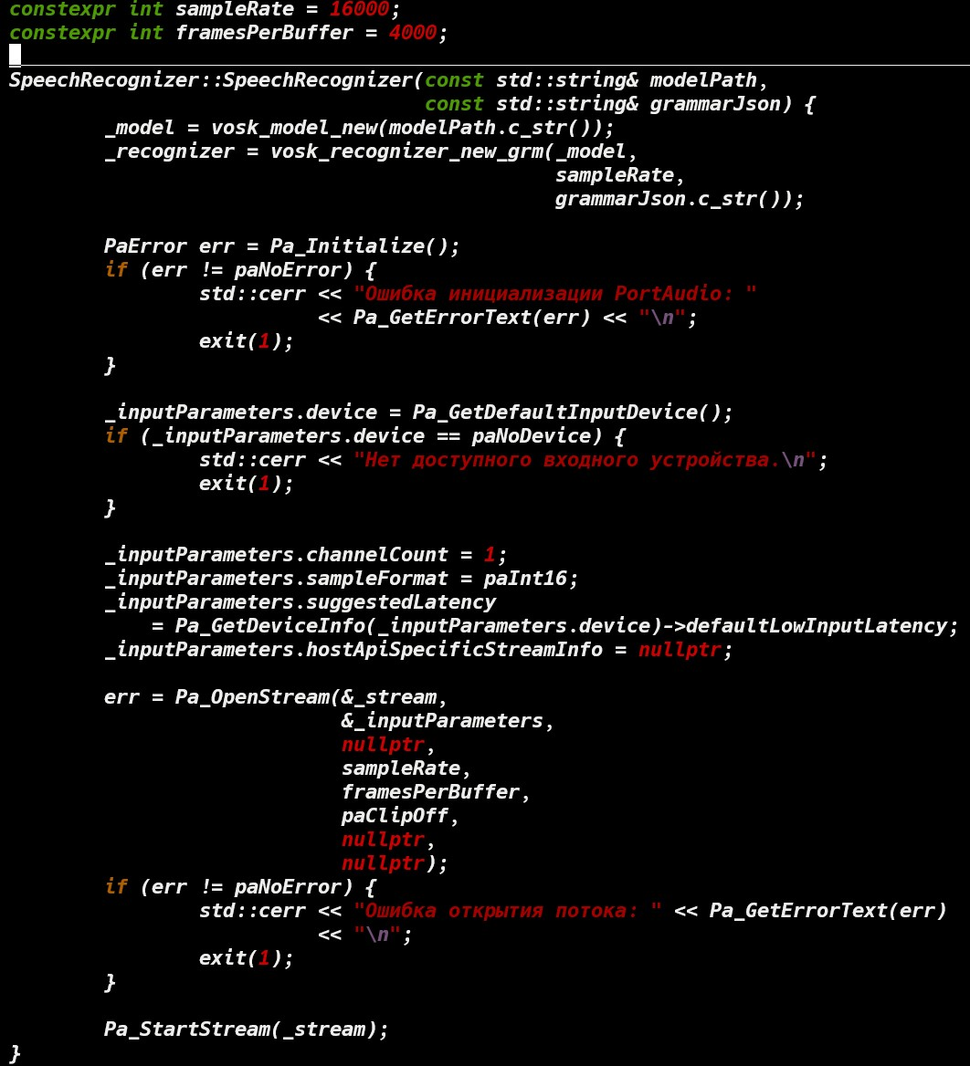
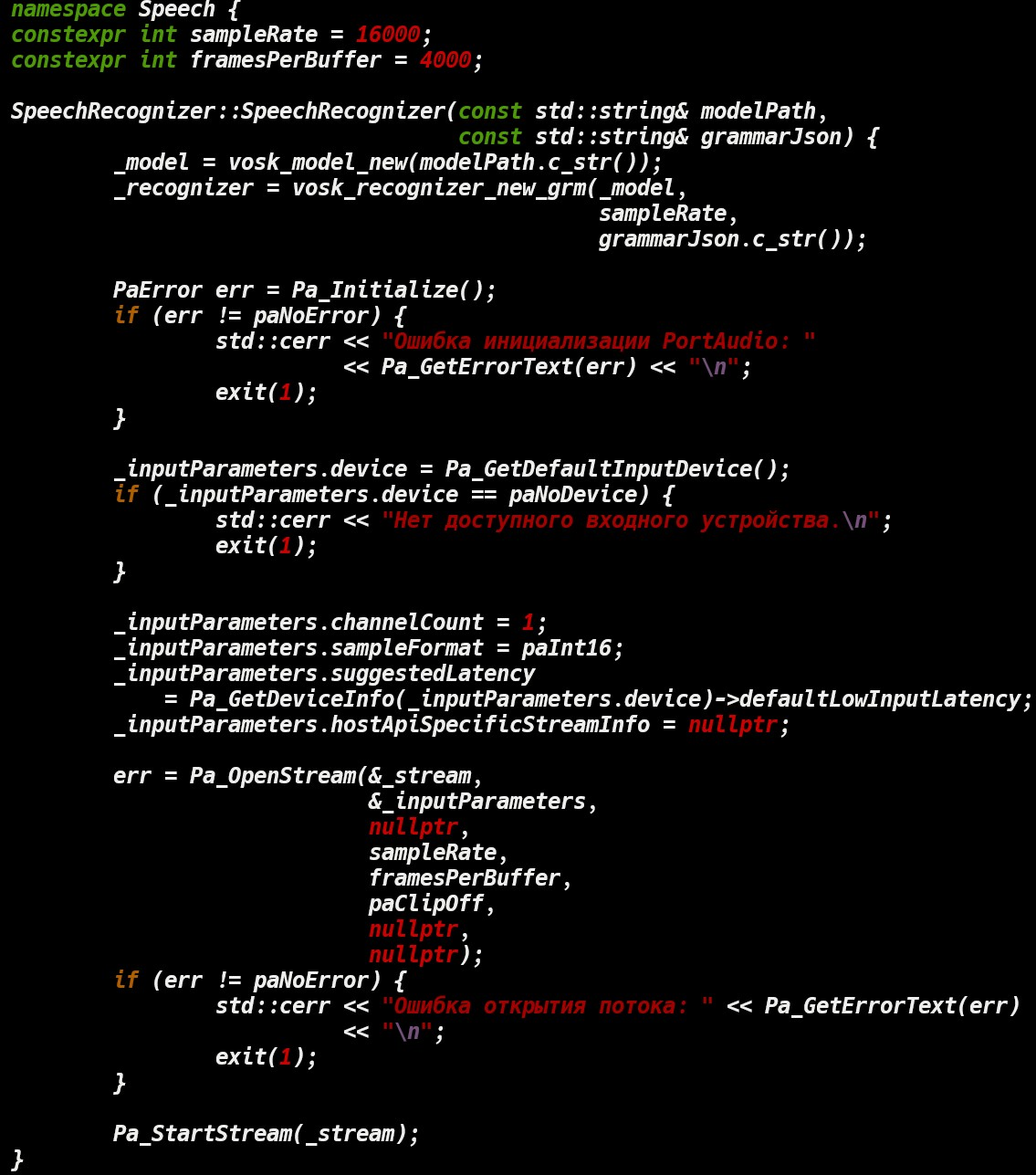
Написал 3 раздел и добавил фото

diff --git a/Tex/section_3.tex b/Tex/section_3.tex
@@ -9,9 +9,9 @@
 \begin{itemize}
 	\item {Core::VoiceAssistant} — центральный компонент, управляющий жизненным циклом голосового помощника. Он отвечает за инициализацию всех необходимых модулей и запуск основного цикла обработки команд.
 	
-	\item {Speach::SpeechRecognizer} — модуль распознавания речи, использующий библиотеку \textit{Vosk} и \text{PortAudio} для захвата и анализа аудиопотока с микрофона.
+	\item {Speech::SpeechRecognizer} — модуль распознавания речи, использующий библиотеку \textit{Vosk} и \text{PortAudio} для захвата и анализа аудиопотока с микрофона.
 	
-	\item {CommandManager} — отвечает за регистрацию голосовых команд и выполнение соответствующих обработчиков при их распознавании.
+	\item {Commands::CommandManager} — отвечает за регистрацию голосовых команд и выполнение соответствующих обработчиков при их распознавании.
 \end{itemize}
 
 Взаимодействие между компонентами организовано следующим образом: \texttt{VoiceAssistant} инициализирует экземпляр \texttt{SpeechRecognizer}, а затем в бесконечном цикле получает голосовой ввод, преобразованный в текст. Полученный текст передаётся в \texttt{CommandManager}, который анализирует его и при обнаружении соответствующей команды вызывает заранее зарегистрированную функцию-обработчик. Таким образом реализована цепочка: \textbf{распознавание}~$\rightarrow$~\textbf{анализ}~$\rightarrow$~\textbf{выполнение}.
@@ -23,54 +23,100 @@
 На представленном рисунке \ref{fig:main.cpp} показан исходный код на языке C++, реализующий точку входа в систему голосового помощника.
 \begin{figure}[H]
 	\centering
-	\includegraphics[scale=0.5]{main.jpg}
+	\includegraphics[scale=0.7]{main.jpg}
 	\caption{Точка входа в программную систему}
 	\label{fig:main.cpp}
 \end{figure}
 
+При создании обьетка assistant вызывается конструктор класса VoiceAssistant на рисунке \ref{fig:constructor_VoiceAssistant}
+
 \begin{figure}[H]
 	\centering
-	\includegraphics[scale=0.5]{constructor_VoiceAssistant.jpg}
+	\includegraphics[scale=0.7]{constructor_VoiceAssistant.jpg}
 	\caption{Конструктор VoiceAssistant}
+	\label{fig:constructor_VoiceAssistant}
 \end{figure}
 
-При создании объекта VoiceAssistant:
+Конструктор класса VoiceAssistant:
 \begin{itemize}
  	\item Загружается модель распознавания речи Vosk для русского языка.
 
 	\item Настраивается ограниченный набор фраз, которые ассистент сможет распознавать. Это повышает точность, так как система не пытается распознать произвольную речь, а ждёт только указанные команды.
 \end{itemize}
 
+Затем созданный обьект вызывает метод run() который представлен на рисунке \ref{fig:run_VoiceAssistant}
+
 \begin{figure}[H]
 	\centering
-	\includegraphics[scale=0.7]{run_VoiceAssistant.jpg}
+	\includegraphics[scale=0.6]{run_VoiceAssistant.jpg}
 	\caption{Метод run() класса VoiceAssistant}
+	\label{fig:run_VoiceAssistant}
 \end{figure}
 
-Метод VoiceAssistant::run() обеспечивает запуск и непрерывную работу голосового ассистента. В начале работы выводится ASCII-графика в виде стилизованного баннера, созданного с помощью raw-строки для удобного многострочного форматирования. Сразу после отображения логотипа программа выводит текстовое сообщение "Голосовой помощник запущен", сигнализирующее о начале работы системы. Основная функциональность реализована через бесконечный цикл, в котором непрерывно происходит захват аудиопотока через метод recognizer->listen(), преобразование звукового сигнала в текст с использованием модели распознавания речи Vosk и последующая обработка полученных команд. Распознанный текст проверяется на пустоту, и при успешном распознавании передается в метод processCommand() для выполнения соответствующих действий. Система работает в постоянном режиме ожидания голосовых команд до принудительного завершения работы программы, при этом все пустые или нераспознанные аудиофрагменты автоматически игнорируются для предотвращения ложных срабатываний. Реализация использует предобученную модель Vosk для русского языка с ограниченным набором команд, что обеспечивает высокую точность распознавания при работе с заданными фразами-триггерами. Алгоритм работы представляет собой последовательность непрерывно повторяющихся операций: захват аудиосигнала, преобразование речи в текст, валидация результата и выполнение соответствующей команды через механизм обработки голосовых инструкций.
+Метод VoiceAssistant::run() обеспечивает запуск и непрерывную работу голосового ассистента. В начале работы выводится ASCII-графика в виде стилизованного баннера. Сразу после отображения логотипа программа выводит текстовое сообщение "Голосовой помощник запущен". Основная функциональность реализована через бесконечный цикл, в котором есть обьект который создан через конструктор показаный на рисунке  \ref{fig:constructor_SpeechRecognizer}
 
 \begin{figure}[H]
 	\centering
-	\includegraphics[scale=0.7]{constructor_SpeechRecognizer.jpg}
+	\includegraphics[scale=0.5]{constructor_SpeechRecognizer.jpg}
 	\caption{Конструктор SpeechRecognizer}
+		\label{fig:constructor_SpeechRecognizer}
 \end{figure}
 
-Конструктор класса SpeechRecognizer выполняет инициализацию системы распознавания речи, начиная с загрузки акустической модели Vosk по указанному пути. Для работы с голосовыми командами создается распознаватель с ограниченной грамматикой, заданной в JSON-формате, что позволяет системе фокусироваться только на указанных фразах-триггерах. Частота дискретизации аудиопотока фиксирована на значении 16 кГц, что является стандартом для задач распознавания речи, а размер буфера для обработки установлен в 4000 сэмплов.
 
-Инициализация аудиовхода осуществляется через библиотеку PortAudio, где сначала проверяется наличие доступных записывающих устройств. Если микрофон обнаружен, настраиваются параметры аудиопотока: одноканальный режим (моно), 16-битный целочисленный формат данных и рекомендуемая задержка, взятая из характеристик устройства. При возникновении ошибок на любом этапе (отсутствие устройства, проблемы с открытием потока) программа аварийно завершается с выводом соответствующего сообщения. После успешной настройки аудиопоток запускается в режиме реального времени, что позволяет начать передачу аудиоданных в распознаватель Vosk для последующей обработки.
-
-Весь процесс инициализации включает четыре ключевых этапа: создание модели распознавания, конфигурацию аудиоинтерфейса, открытие звукового потока и его активацию. Использование фиксированных параметров (частота дискретизации, размер буфера) гарантирует стабильную работу системы на оборудовании с разными характеристиками, а обработка ошибок на каждом этапе обеспечивает корректное поведение при отсутствии необходимых компонентов. Полученный экземпляр распознавателя готов к непрерывной записи и анализу аудиосигнала через вызов соответствующего метода, который будет передавать данные в модель Vosk для преобразования речи в текст согласно заданной грамматике.
+и в котором непрерывно происходит захват аудиопотока через метод listen() представленом на рисунке \ref{fig:listenSpeechRecognizer}
 
 \begin{figure}[H]
 	\centering
 	\includegraphics[scale=0.8]{listenSpeechRecognizer.jpg}
 	\caption{Метод listen() класса SpeechRecognizer}
+	\label{fig:listenSpeechRecognizer}
 \end{figure}
 
-Метод \texttt{SpeechRecognizer::listen()} реализует процесс захвата и обработки аудиоданных для распознавания речи. В начале работы создается буфер размером \texttt{framesPerBuffer} для хранения аудиосэмплов в 16-битном формате (\texttt{short}). С помощью функции \texttt{Pa\_ReadStream} осуществляется чтение аудиопотока из микрофона, при этом данные записываются в подготовленный буфер. Полученные аудиоданные передаются в распознаватель Vosk через функцию \texttt{vosk\_recognizer\_accept\_waveform}, где происходит их преобразование в текстовый формат.
+Данные метод реализует процесс захвата и обработки аудиоданных для распознавания речи. В начале работы создается буфер размером \texttt{framesPerBuffer} для хранения аудиосэмплов в 16-битном формате (\texttt{short}). С помощью функции \texttt{Pa\_ReadStream} осуществляется чтение аудиопотока из микрофона, при этом данные записываются в подготовленный буфер. Полученные аудиоданные передаются в распознаватель Vosk через функцию \texttt{vosk\_recognizer\_accept\_waveform}, где происходит их преобразование в текстовый формат.
 
 Если распознавание прошло успешно, функция \texttt{vosk\_recognizer\_result} возвращает результат в виде JSON-строки, содержащей распознанный текст. Из этой строки извлекается непосредственно текстовая часть между полями \texttt{\string"text\string" : \string"} и закрывающей кавычкой. Для этого используется поиск позиций соответствующих подстрок и последующее выделение нужного фрагмента. Если текст успешно извлечен, он возвращается как результат работы метода. В случае неудачного распознавания или отсутствия текста в результате возвращается пустая строка.
 
 Таким образом, метод обеспечивает непрерывный цикл захвата аудио, его преобразование в текст и извлечение распознанных фраз из структуры результата, возвращая их для дальнейшей обработки в системе.
+
+Условие if (!text.empty()) анализирует, содержит ли переменная text какую-либо распознанную речевую фразу. Если проверка проходит успешно (то есть строка не является пустой), это означает, что пользователь произнес осмысленную команду, и система переходит к её обработке, вызывая функцию processCommand(text). Данная логика работы наглядно представлена на рисунке \ref{fig:processCommand_VoiceAssistant}.
+
+\begin{figure}[H]
+	\centering
+	\includegraphics[scale=0.8]{processCommand_VoiceAssistant.jpg}
+	\caption{Метод processCommand()  класса VoiceAssistant}
+	\label{fig:processCommand_VoiceAssistant}
+\end{figure}
+
+Метод processCommand() выполняет передачу распознанной голосовой команды в менеджер команд для дальнейшей обработки. Он принимает текстовую строку с распознанной речью и у обьека созданного через конструктор представленый на рисунке \ref{fig:constructor_CommandManager}.
+
+
+\begin{figure}[H]
+	\centering
+	\includegraphics[scale=0.8]{constructor_CommandManager.jpg}
+	\caption{Конструктор класса CommandManager}
+	\label{fig:constructor_CommandManager}
+\end{figure}
+
+Конструктор CommandManager при создании объекта регистрирует три голосовые команды для управления оборудованием через метод registerCommand который представлен на рисунке \ref{fig:registerCommand_CommandManager}.
+
+\begin{figure}[H]
+	\centering
+	\includegraphics[scale=0.8]{registerCommand_CommandManager.jpg}
+	\caption{Метод registerCommand()  класса CommandManager}
+	\label{fig:registerCommand_CommandManager}
+\end{figure}
+
+Метод registerCommand добавляет новую команду в систему управления. Он принимает три параметра: техническое имя команды, голосовую фразу-триггер и обработчик команды. При вызове метод сохраняет команду во внутреннем хранилище commands, связывая между собой имя команды, её голосовой триггер и функцию-обработчик. Техническое имя и голосовой триггер перемещаются в хранилище, а обработчик передаётся с сохранением категории значения (lvalue или rvalue). Это позволяет регистрировать различные команды с их обработчиками, которые система сможет выполнять при распознавании соответствующих голосовых фраз.
+
+ и после этого созданые обьект commandManager вызывает метод process() которые представлен на рисунке \ref{fig:process_CommandManager}.
+
+\begin{figure}[H]
+	\centering
+	\includegraphics[scale=0.8]{process_CommandManager.jpg}
+	\caption{Метод process()  класса CommandManager}
+	\label{fig:process_CommandManager}
+\end{figure}
+
+Метод CommandManager::process обрабатывает входящую текстовую команду следующим образом. Сначала проверяет, содержит ли текст ключевое слово "алиса" — если его нет, метод сразу завершает работу без дальнейших действий. Если ключевое слово присутствует, метод перебирает все зарегистрированные команды из хранилища commands и ищет соответствие между текстом команды и сохранёнными голосовыми триггерами. При нахождении совпадения метод фиксирует время вызова команды с помощью logTime(), выполняет связанный с командой обработчик handler() и завершает работу. Если ни одна команда не подходит, метод просто завершается без выполнения каких-либо действий. Таким образом, система реагирует только на команды, содержащие слово "алиса" и соответствующие одному из зарегистрированных голосовых шаблонов.
 
 \newpage
